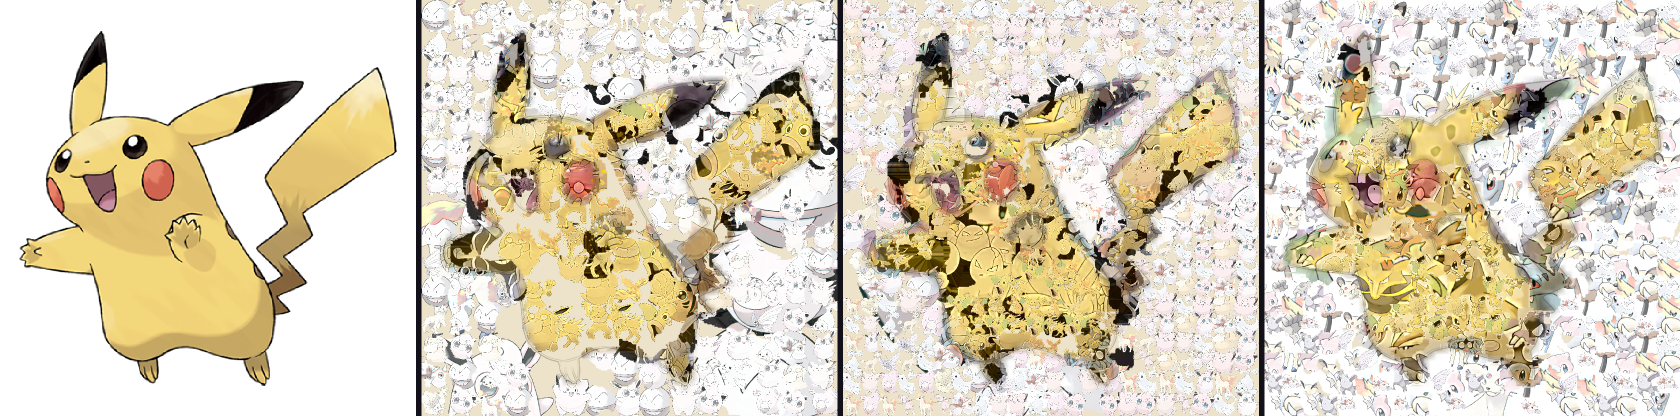
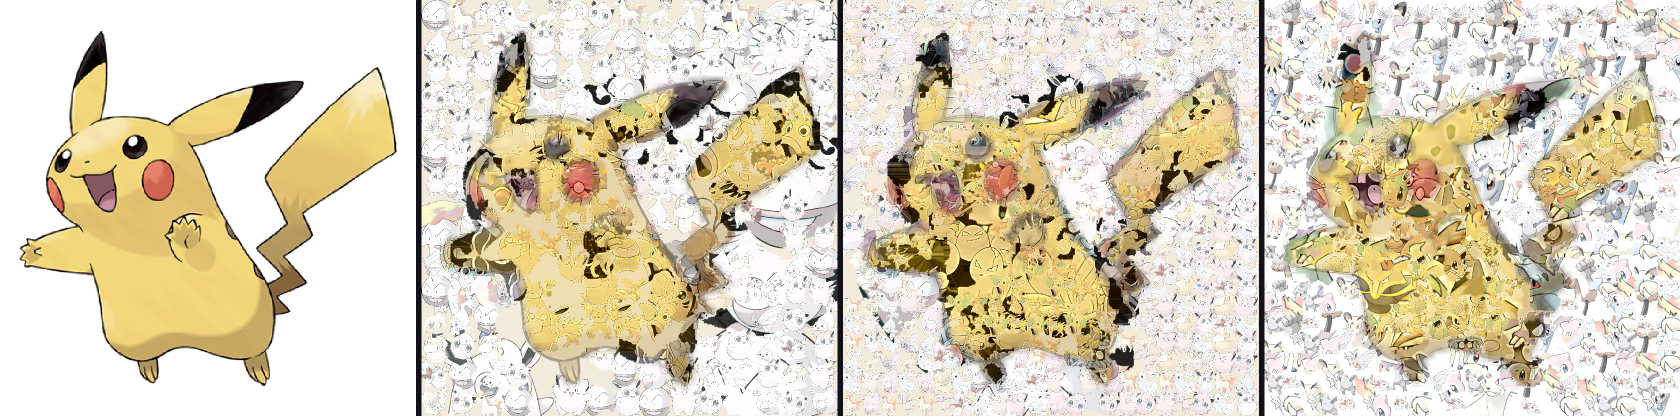
Tint collage gaps with local target color and ship 2.3.0.
Mean-color seams take on 34% of the picture at that spot. At 560 px, portrait SSIM moves from 0.4598 to 0.4658 and Gen 1 Pikachu from 0.5551 to 0.5745, with no same-source touches. The collage golden moves with that change. The grid goldens do not.

diff --git a/engine/src/main/kotlin/com/intrusivethots/mosaic/engine/render/CollageRenderer.kt b/engine/src/main/kotlin/com/intrusivethots/mosaic/engine/render/CollageRenderer.kt
@@ -161,15 +161,25 @@ class CollageRenderer {
         useTarget: Boolean,
         mean: Int
     ) {
-        if (!useTarget || target == null) {
+        if (target == null) {
             row.fill(mean)
             return
         }
+        val hint = if (useTarget) 1f else GAP_HINT
         for (x in 0 until width) {
             val sx = (x + 0.5f) * target.width / width - 0.5f
             val sy = (y + 0.5f) * target.height / height - 0.5f
-            row[x] = target.sampleBilinear(sx, sy) or OPAQUE
+            val sample = target.sampleBilinear(sx, sy) or OPAQUE
+            row[x] = if (hint >= 1f) sample else mixOpaque(mean, sample, hint)
         }
+    }
+
+    private fun mixOpaque(base: Int, sample: Int, amount: Float): Int {
+        val keep = 1f - amount
+        val red = (((base ushr 16) and 255) * keep + ((sample ushr 16) and 255) * amount).toInt().coerceIn(0, 255)
+        val green = (((base ushr 8) and 255) * keep + ((sample ushr 8) and 255) * amount).toInt().coerceIn(0, 255)
+        val blue = ((base and 255) * keep + (sample and 255) * amount).toInt().coerceIn(0, 255)
+        return (0xFF shl 24) or (red shl 16) or (green shl 8) or blue
     }
 
     internal fun paintShadow(row: IntArray, y: Int, sprite: Sprite, width: Int) {
@@ -322,6 +332,7 @@ class CollageRenderer {
     companion object {
         private const val OPAQUE = 0xFF shl 24
         private const val OPAQUE_MASK = OPAQUE
+        private const val GAP_HINT = 0.34f
         private const val SHADOW_SHIFT = 2
         private const val SHADOW_ALPHA = 70
         private const val OUTLINE = 0x1C140E

diff --git a/engine/src/test/kotlin/com/intrusivethots/mosaic/engine/CollageGoldenTest.kt b/engine/src/test/kotlin/com/intrusivethots/mosaic/engine/CollageGoldenTest.kt
@@ -14,7 +14,7 @@ class CollageGoldenTest {
     }
 
     companion object {
[2 lines of base64/hex data omitted]
 
         suspend fun renderCollageGolden() = GenerationCoordinator().generate(
             target = scene(72, 48),

diff --git a/README.md b/README.md
@@ -170,7 +170,7 @@ On the King of the Hill library, 97 cutouts remain and 94 have a face, so 3 are 
 
 Pikachu (national dex 25) is also a target on its own. The library is the other 150 Gen 1 official artworks, each a transparent PNG. The collage uses every sticker whole: the detector finds a face on 148 of the 150, and the render still places 0 face crops. Clear pixels stay clear. The grid row uses the same artworks composited on white. Sources are the PokeAPI files listed in [docs/showcase/gen1-sources.tsv](docs/showcase/gen1-sources.tsv). The pictures are not committed.
 
-The full collage places 405 pieces. Distance ΔE is 0.0948 and SSIM is 0.548. Piece fidelity is 0.211 median and 0.067 at the 10th percentile, because a sticker's clear pixels are not painted into the cut. The smallest visible short side is 4.65%. The dense pass places 417 pieces, ΔE 0.0913, SSIM 0.567, fidelity 0.207 and 0.078. The picture is 1549×1549.
+The full collage places 405 pieces. Distance ΔE is 0.0904 and SSIM is 0.565. Piece fidelity is 0.176 median and 0.057 at the 10th percentile, because a sticker's clear pixels are not painted into the cut. The smallest visible short side is 4.65%. The dense pass places 417 pieces, ΔE 0.0868, SSIM 0.583, fidelity 0.172 and 0.057. The picture is 1549×1549.
 
 ![Pikachu rebuilt from Gen 1 stickers](docs/images/gen1-cutout-collage.png)
 
@@ -344,7 +344,7 @@ Do not commit that file or the keystore.
 
 ## Testing
 
[2 lines of base64/hex data omitted]
 
 ```bash
 ./gradlew :engine:test :engine:detekt :app:detekt :app:lintDebug
@@ -367,9 +367,11 @@ GitHub Actions (`.github/workflows/ci.yml`) runs engine tests, detekt, benchmark
 
 If `KEYSTORE_BASE64` is empty, the workflow logs that and still builds unsigned artifacts. Upload the AAB to Play Console from a machine that has the real upload key. This repository does not contain one.
 
-A push of `cursor/collage-tuning-loop-fcee` publishes the debug APK only after the engine, Android, and instrumented jobs all succeed. The tag is `v` plus `versionName` plus `-dev`, so a version bump gets a new tag. The workflow force-updates that tag to the commit that was built. For 2.2.0 the file is `app-debug.apk` at `v2.2.0-dev`.
+A push of `cursor/collage-tuning-loop-fcee` publishes the debug APK only after the engine, Android, and instrumented jobs all succeed. The tag is `v` plus `versionName` plus `-dev`, so a version bump gets a new tag. The workflow force-updates that tag to the commit that was built. For 2.3.0 the file is `app-debug.apk` at `v2.3.0-dev`.
 
-https://github.com/Intrusive-Thots/Mosaic/releases/download/v2.2.0-dev/app-debug.apk
+https://github.com/Intrusive-Thots/Mosaic/releases/download/v2.3.0-dev/app-debug.apk
+
+Version 2.3.0 (versionCode 5). A folder you already opened comes back as the thumbnail grid, and Drive reopens the last folder. A build shows about how long is left and stays cancellable. A library of 151 stickers is decoded small enough to fit a phone. Mean-color gaps take on a third of the local picture color, so sticker holes follow the subject. On the 560 px read, portrait ΔE moved from 0.0556 to 0.0547 and SSIM from 0.4598 to 0.4658. Gen 1 Pikachu moved from ΔE 0.0878 to 0.0838 and SSIM from 0.5551 to 0.5745. Same-source touches stayed 0. The collage golden moved for that gap color. The grid goldens did not.
 
 Version 2.2.0 (versionCode 4). Transparent PNGs are stickers: their alpha is the piece mask, ML Kit is skipped, and a missed face keeps the whole sticker. The source picker browses a folder, including Drive through Files or the in-app browser, as a named thumbnail grid with multi-select and select all. One chosen image can be the picture. Pikachu rebuilt from the other Gen 1 official artworks is in the demos. The debug APK is signed with the committed debug keystore.
 

diff --git a/docs/collage-tuning-log.md b/docs/collage-tuning-log.md
@@ -2,7 +2,7 @@
 
 Measurements use the showcase cutout settings (`currentCollage`: color grade 0.72, dense style, separate pieces off) at a 560 px long edge and 640 requested pieces. Distance ΔE and SSIM are the 64 px read. Fidelity is piece-content SSIM, median and 10th percentile. Coverage is the union of piece masks on a 160 px grid. Touch is the number of same-source pairs whose visible regions share an edge or a corner. Edge F1 compares 64 px Sobel maps and allows a one-pixel miss.
 
[2 lines of base64/hex data omitted]
 
 ## Baseline
 
@@ -104,3 +104,16 @@ Uniform grids double along the target's outlines. A coarse block splits when its
 Touch is 0 on every theme. Before the final repair the same renders had 8–15 touching pairs, because a dropped piece had been the only thing between two copies. Reuse is 36–59 sources. Versus section 4, ΔE rose by 0.002–0.006. SSIM rose on Rick (+0.024) and TMNT (+0.023) and fell on the portrait (−0.029), Naruto (−0.028), and King of the Hill (−0.026). Piece fidelity stayed within 0.02. Coverage stayed above 0.95. Edge F1 is 0.80–0.87.
 
 Kept. The spacing rule is required, and the outline scores are the new gate. The 300 px thumbs still read as the characters: the portrait face and flower, Team 7 from Rick and Morty stills, the Smiths from TMNT, the turtles on white, the alley group from Pokemon, and Ash with Pikachu from King of the Hill. Face crops keep the eye and hair lines. A light halo remains on some cuts. Random grid seeds place 64 cells from 6 sources with max reuse 16 and zero touches. Collage seeds place 19 copies with max reuse 6 and zero touches. A denser color-corrected portrait places 62 copies with max reuse 10 and zero touches.
+
+## 6. Local color in the gaps
+
+Mean-color gaps were a flat average, so a sticker's clear pixels and the seams between pieces sat on one color. Those pixels now mix 34% of the target color at that spot into the average. The Target photo background is unchanged. Pieces stay uniformly scaled. Same-source copies still cannot touch.
+
+| Theme | ΔE | SSIM | fidelity | p10 | coverage | touch | edge F1 | chamfer |
+| --- | ---: | ---: | ---: | ---: | ---: | ---: | ---: | ---: |
+| portrait before | 0.0556 | 0.4598 | 0.930 | 0.682 | 0.973 | 0 | 0.853 | 1.67 |
+| portrait after | 0.0547 | 0.4658 | 0.931 | 0.681 | 0.973 | 0 | 0.861 | 1.68 |
+| gen1 before | 0.0878 | 0.5551 | 0.140 | 0.000 | 0.976 | 0 | 0.867 | 0.86 |
+| gen1 after | 0.0838 | 0.5745 | 0.118 | 0.000 | 0.976 | 0 | 0.876 | 0.84 |
+
+Portrait ΔE fell by 0.0009 and SSIM rose by 0.006. Piece fidelity stayed within 0.001. Gen 1 Pikachu, rebuilt from the other 150 stickers at 560 px, moved ΔE from 0.0878 to 0.0838 and SSIM from 0.5551 to 0.5745. Sticker piece fidelity fell from 0.140 to 0.118 because a semi-transparent edge is now composited on local color. Coverage and touch did not change. Kept. The collage golden moved. The grid goldens did not.
